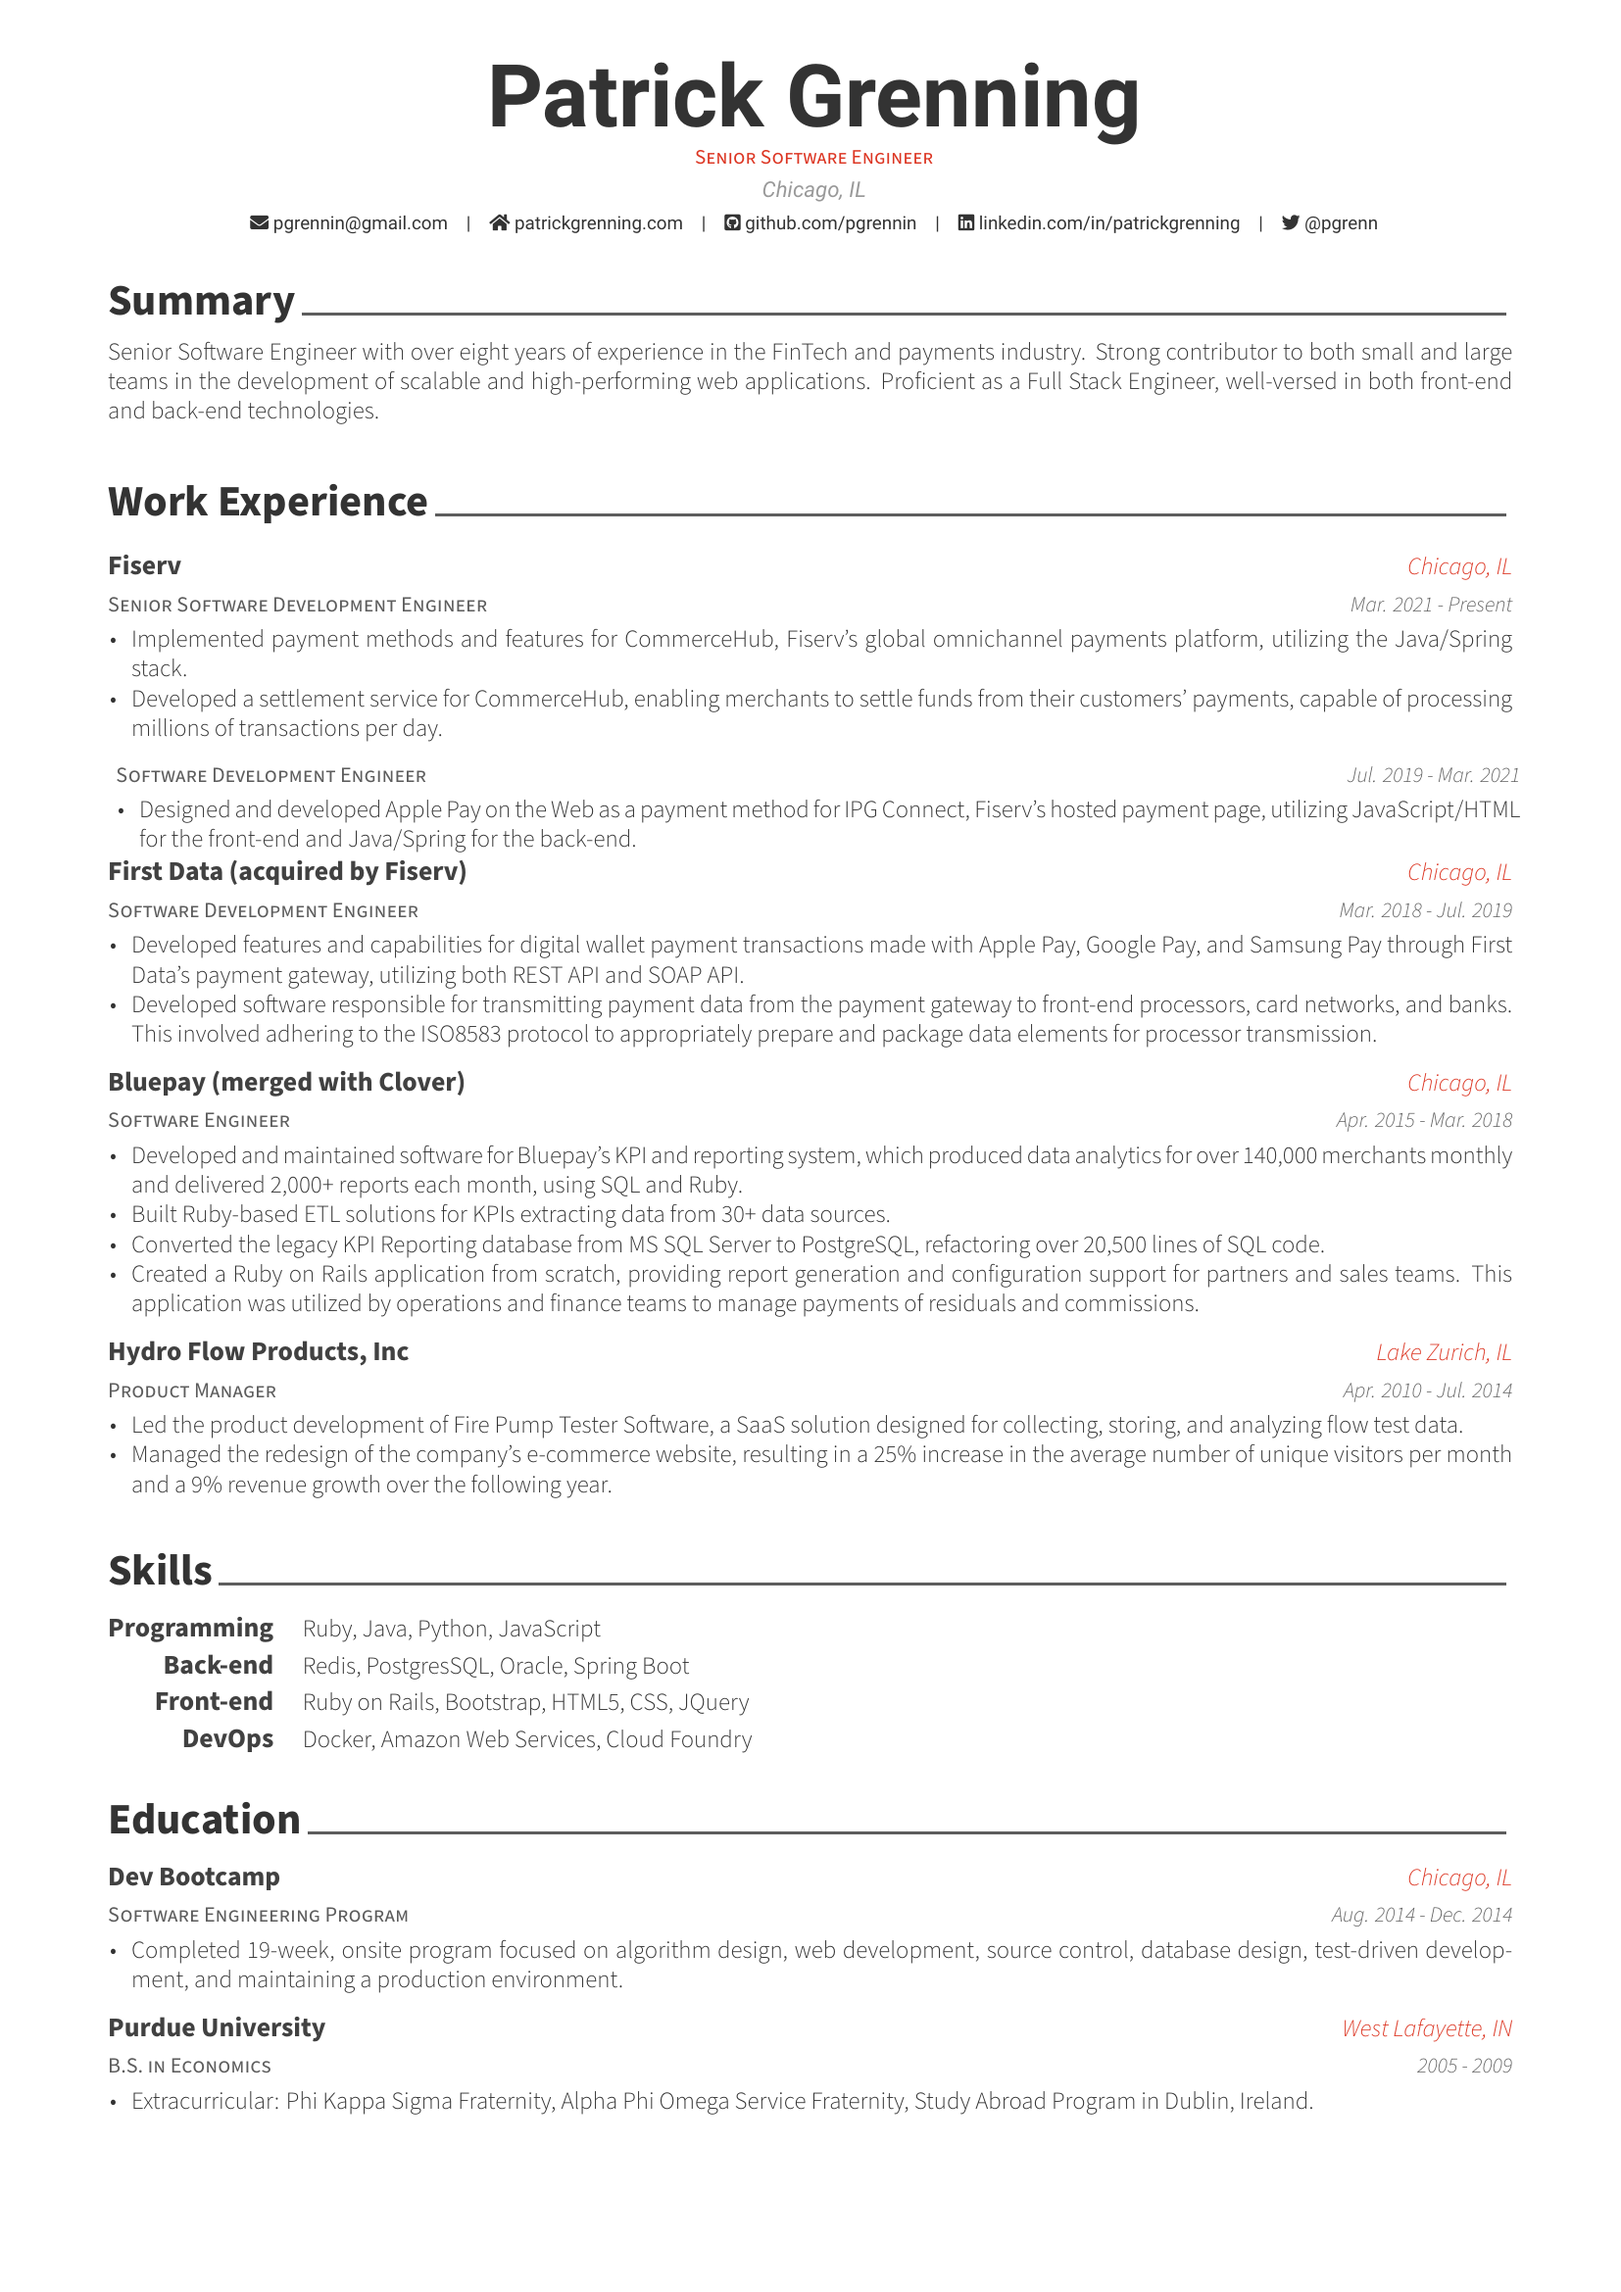
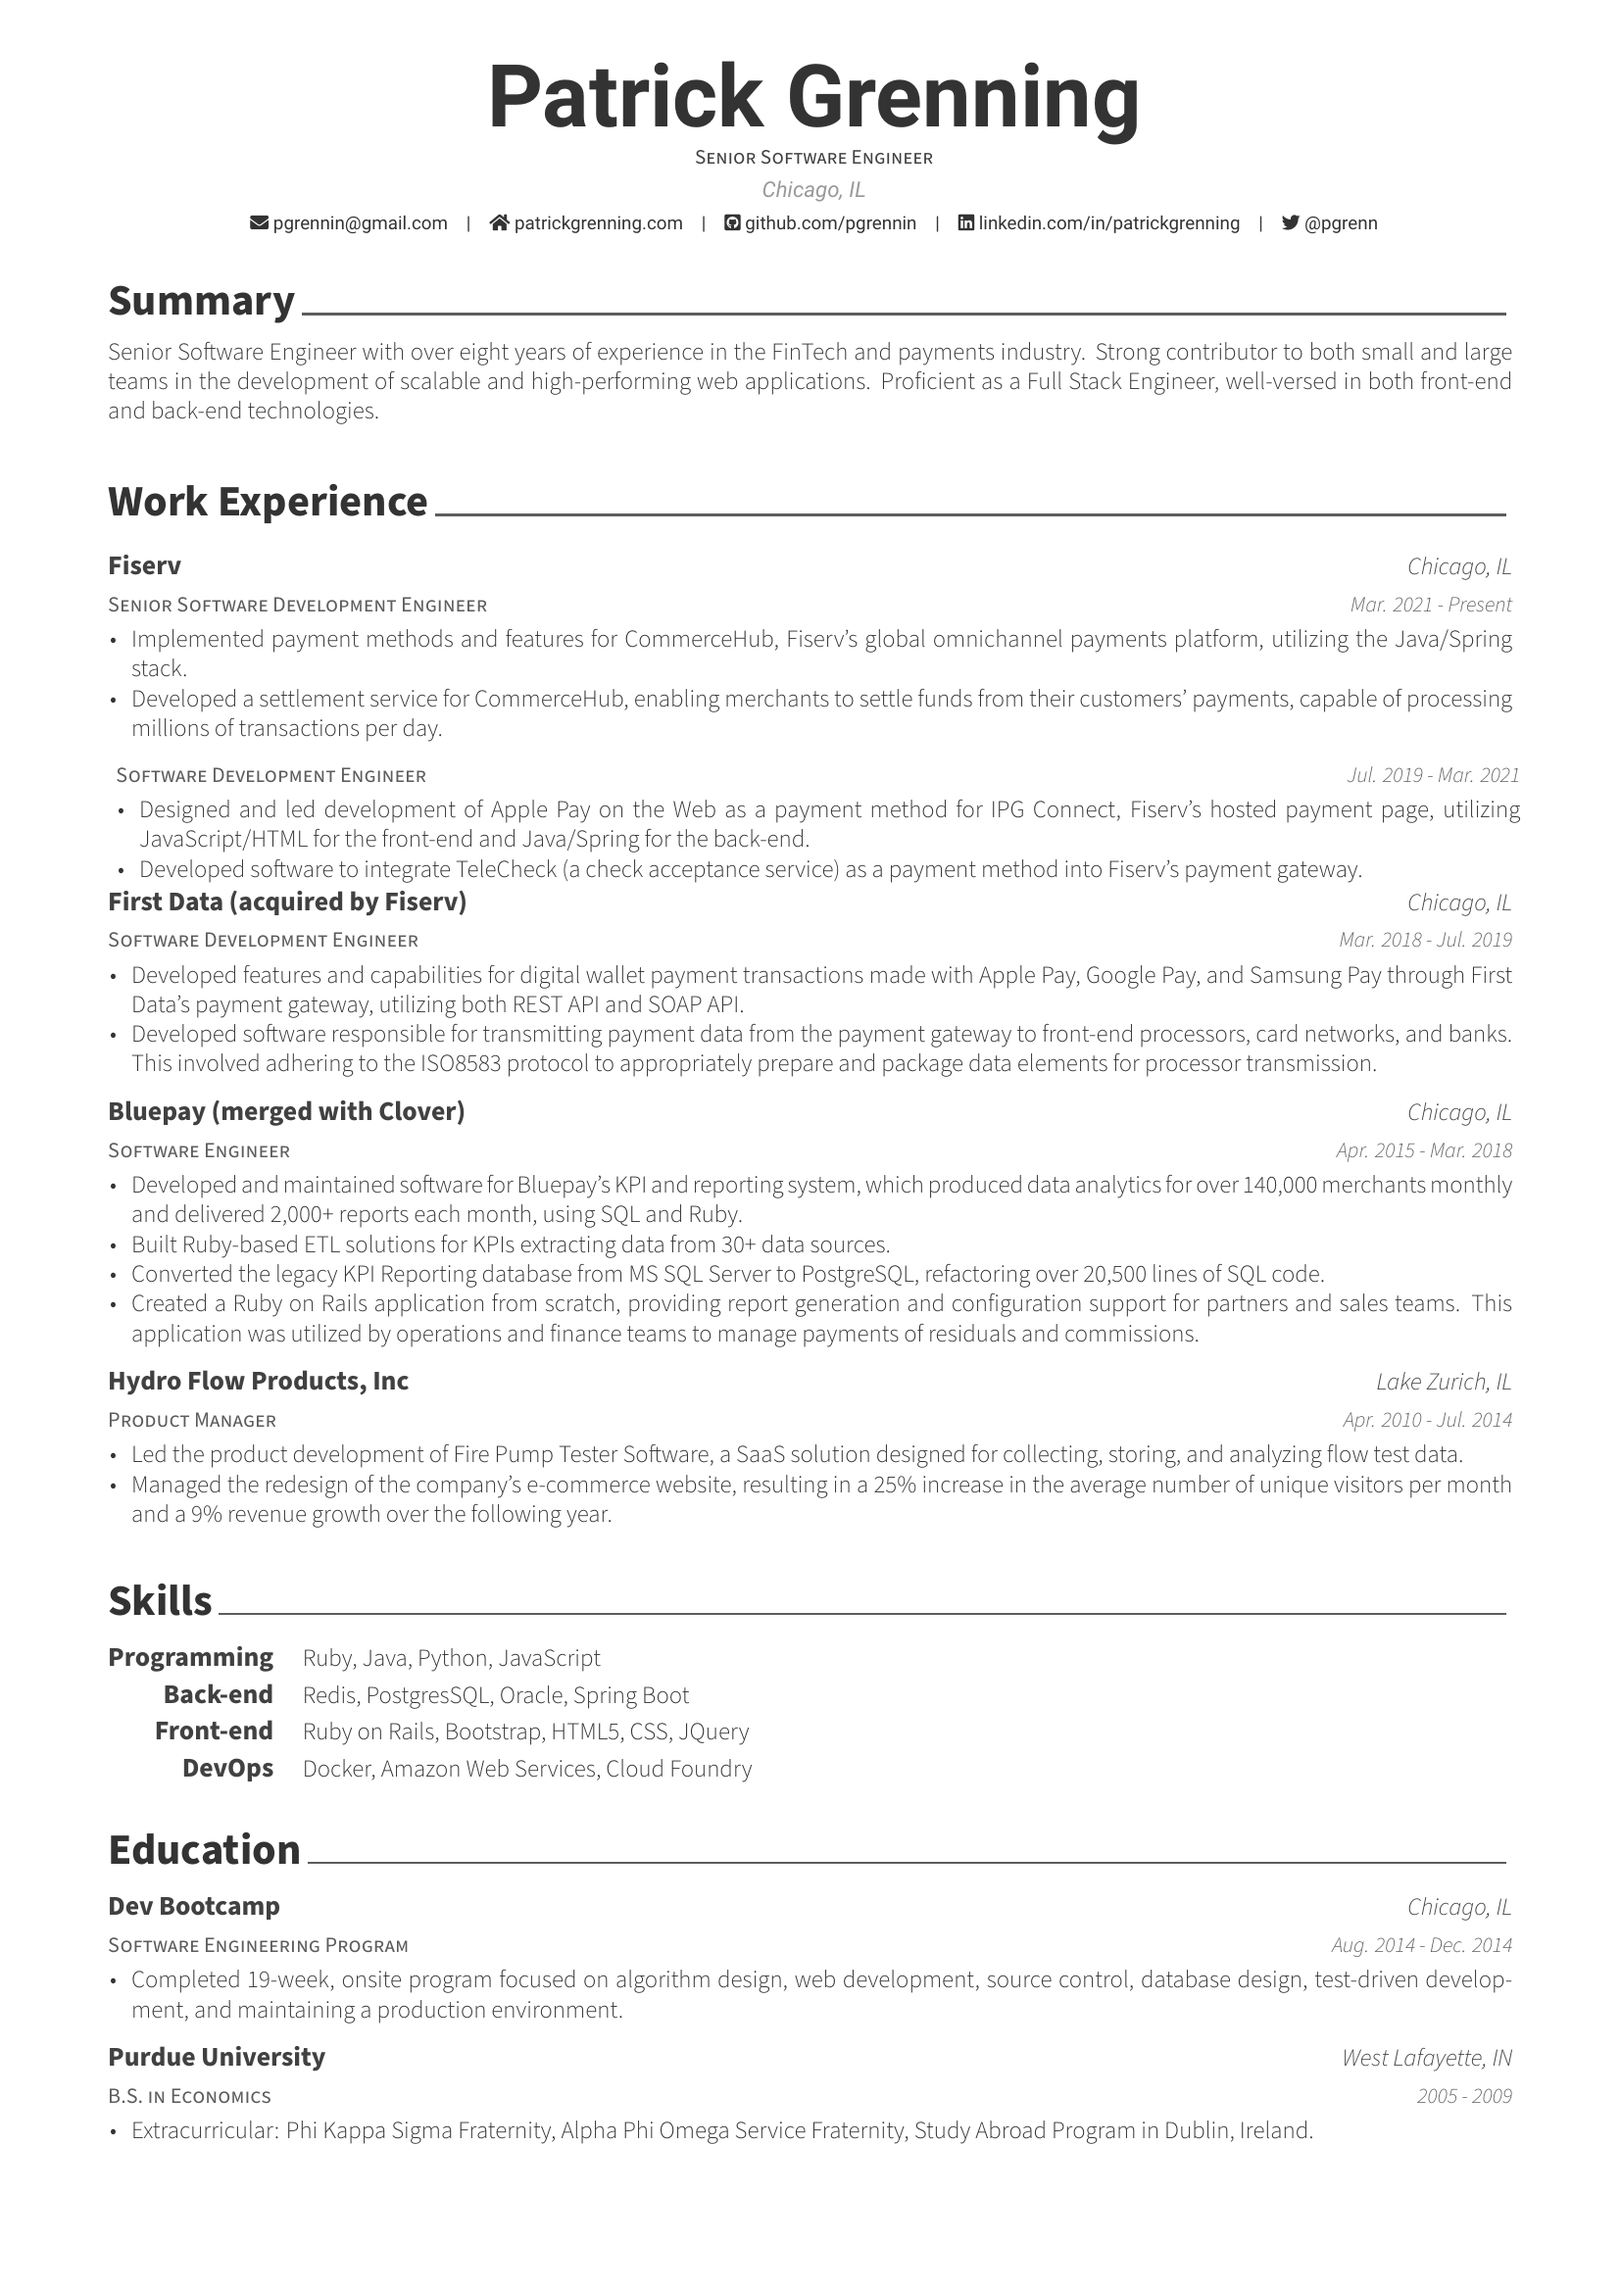
misc

diff --git a/examples/resume/experience.tex b/examples/resume/experience.tex
@@ -28,7 +28,7 @@
     {Jul. 2019 - Mar. 2021} % Date(s)
     {
         \begin{cvitems} % Description(s) of tasks/responsibilities
-            \item {Designed and developed Apple Pay on the Web as a payment method for IPG Connect, Fiserv's hosted payment page, utilizing JavaScript/HTML for the front-end and Java/Spring for the back-end.}
+            \item {Designed and led development of Apple Pay on the Web as a payment method for IPG Connect, Fiserv's hosted payment page, utilizing JavaScript/HTML for the front-end and Java/Spring for the back-end.}
             \item {Developed software to integrate TeleCheck (a check acceptance service) as a payment method into Fiserv's payment gateway.}
         \end{cvitems}
     }

diff --git a/README.md b/README.md
@@ -8,10 +8,6 @@ The following script I created  will generate the resume in a docker container.
 
 ```bash run.sh```
 
-run and open 
-
-`bash run.sh && open examples/patrick_grenning_resume.pdf`
-
 ## My Resume
 
 [PDF Resume](examples/patrick_grenning_resume.pdf)
